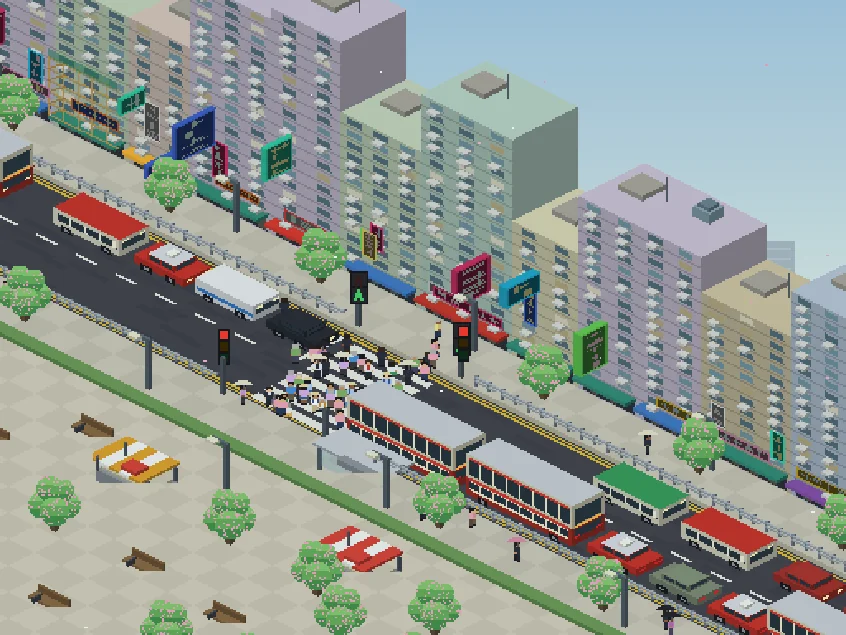
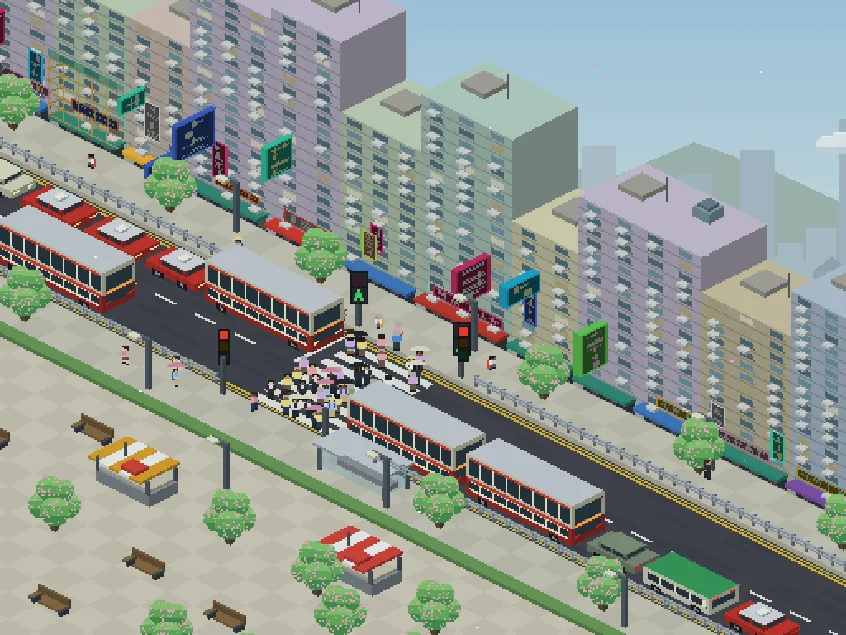
hkg-crossing: no more clipped sprites, a proper sky, and Time/Season preview buttons
Sprites are trimmed from a scratch canvas so shelters, benches, stalls and guardrails
keep their corners. The backdrop now has a sun, Victoria Peak, two rows of far towers
and drifting clouds. Time and Season buttons under the street preview any look.
Cover and write-up images re-rendered.

diff --git a/hkg-crossing/scene.js b/hkg-crossing/scene.js
@@ -87,8 +87,10 @@ const SEASONS = ['winter', 'spring', 'summer', 'autumn'];
 const QS = new URLSearchParams(location.search);
 function seasonOf(m) { return m === 11 || m <= 1 ? 'winter' : m <= 4 ? 'spring' : m <= 7 ? 'summer' : 'autumn'; }
 function periodOf(h) { return h >= 6 && h < 12 ? 'morning' : h >= 12 && h < 18 ? 'afternoon' : h >= 18 ? 'evening' : 'late'; }
-function clockHour() { const v = QS.get('hour'); return v !== null && v !== '' && !isNaN(+v) ? ((+v % 24) + 24) % 24 : new Date().getHours(); }
+const OVR = { hour: null, season: null };   // set by the Time / Season preview buttons (null = follow the clock, ?hour= or ?season=)
+function clockHour() { if (OVR.hour !== null) return OVR.hour; const v = QS.get('hour'); return v !== null && v !== '' && !isNaN(+v) ? ((+v % 24) + 24) % 24 : new Date().getHours(); }
 function clockSeason() {
+  if (OVR.season !== null) return OVR.season;
   const s = QS.get('season'); if (SEASONS.includes(s)) return s;
   const m = QS.get('month'); if (m !== null && m !== '' && !isNaN(+m)) return seasonOf((((+m - 1) % 12) + 12) % 12);
   return seasonOf(new Date().getMonth());
@@ -139,15 +141,32 @@ function drawSky(ctx, sk) {
   const sky = ctx.createLinearGradient(0, 0, 0, H);
   sky.addColorStop(0, sk.top); sky.addColorStop(0.55, sk.mid); sky.addColorStop(1, sk.low);
   ctx.fillStyle = sky; ctx.fillRect(0, 0, W, H);
-}
-function drawSkyline(ctx) {            // transparent canvas: the peak and the hazy far towers
-  const r = rng(7); ctx.save(); ctx.translate(0, OY - 36);
-  poly(ctx, [0, 150, 70, 96, 130, 120, 210, 70, 300, 112, 380, 84, 470, 118, 512, 100, 512, 200, 0, 200], '#a9bdb8');
-  for (let x = -10; x < W; x += 14 + Math.floor(r() * 16)) {
-    const w = 12 + Math.floor(r() * 16), h = 40 + Math.floor(r() * 90);
-    ctx.fillStyle = mix('#b6c4cc', '#9eb0bc', r()); ctx.fillRect(x, 175 - h, w, h + 60);
-    ctx.fillStyle = 'rgba(255,255,255,.18)'; for (let yy = 175 - h + 4; yy < 175; yy += 6) ctx.fillRect(x + 2, yy, w - 4, 1);
+  // sun: low and soft in the morning, high and bright in the afternoon, a big orange one setting in the evening; hidden by winter overcast
+  const sunAt = { morning: [458, 170, 9, '255,240,190', 70], afternoon: [405, 46, 8, '255,252,225', 90], evening: [478, 215, 12, '255,170,90', 110] }[state.period];
+  if (sunAt && state.season !== 'winter') {
+    const [sx, sy, r, rgbc, gr] = sunAt, gl = ctx.createRadialGradient(sx, sy, 0, sx, sy, gr);
+    gl.addColorStop(0, `rgba(${rgbc},.75)`); gl.addColorStop(1, `rgba(${rgbc},0)`); ctx.fillStyle = gl; ctx.fillRect(sx - gr, sy - gr, gr * 2, gr * 2);
+    ctx.fillStyle = `rgb(${rgbc})`; for (let yy = -r; yy <= r; yy++) { const hw = Math.round(Math.sqrt(r * r - yy * yy)); ctx.fillRect(sx - hw, sy + yy, hw * 2, 1); }
   }
+}
+function drawSkyline(ctx) {            // transparent canvas: Victoria Peak and two rows of hazy far towers (they poke above the near rooftops)
+  const r = rng(7), base = 260;
+  ctx.save();
+  // the peak and ridge, rising to the right
+  poly(ctx, [0, 232, 60, 214, 130, 196, 210, 172, 290, 142, 360, 112, 420, 86, 470, 104, 512, 124, 512, 330, 0, 330], '#a6bbb4');
+  poly(ctx, [0, 252, 90, 236, 180, 222, 270, 200, 350, 176, 430, 150, 512, 160, 512, 330, 0, 330], '#b3c6bf');
+  const row = (colA, colB, hMin, hMax, wMin, wMax, win) => {
+    for (let x = -10; x < W; ) {
+      const w = wMin + Math.floor(r() * (wMax - wMin)), h = hMin + Math.floor(r() * (hMax - hMin)), top = base - h;
+      ctx.fillStyle = mix(colA, colB, r()); ctx.fillRect(x, top, w, h + 70);
+      if (r() < 0.22) { ctx.fillRect(x + Math.floor(w / 2), top - 14, 1, 14); }                                   // antenna
+      if (r() < 0.14) poly(ctx, [x, top, x + w / 2, top - 9, x + w, top], mix(colA, colB, 0.5));                  // pitched crown
+      if (win) { ctx.fillStyle = 'rgba(255,255,255,.2)'; for (let yy = top + 4; yy < base; yy += 5) ctx.fillRect(x + 2, yy, w - 4, 1); }
+      x += w - 2 + Math.floor(r() * 5);
+    }
+  };
+  row('#bccad2', '#a9bbc6', 70, 190, 12, 24, false);       // back row: taller, hazier
+  row('#a2b3be', '#92a5b2', 40, 120, 14, 30, true);         // front row: darker, with window lines
   ctx.restore();
 }
 
@@ -253,13 +272,13 @@ function drawSign(ctx, s, glow) {
   }
 }
 
-let staticDay = null, maskSky = null, maskWorld = null;
+let backC = null, worldC = null, maskSky = null, maskWorld = null;
 const lanterns = [];
 function buildStatic() {
-  const sk = skyFor(), [c, x] = canvasOf(W, H), [sl, sx] = canvasOf(W, H), [wc, wx] = canvasOf(W, H);
-  drawSky(x, sk); drawSkyline(sx); x.drawImage(sl, 0, 0);
-  const dy = OY - 36, hz = x.createLinearGradient(0, 120 + dy, 0, 215 + dy); hz.addColorStop(0, 'rgba(0,0,0,0)'); hz.addColorStop(1, sk.low); x.fillStyle = hz; x.fillRect(0, 120 + dy, W, 95);
-  x.fillStyle = sk.low; x.fillRect(0, 215 + dy, W, H - 215 - dy);
+  const sk = skyFor(), [bc, bx] = canvasOf(W, H), [sl, sx] = canvasOf(W, H), [wc, wx] = canvasOf(W, H);
+  drawSky(bx, sk); drawSkyline(sx); bx.drawImage(sl, 0, 0);
+  const hz = bx.createLinearGradient(0, 200, 0, 330); hz.addColorStop(0, 'rgba(0,0,0,0)'); hz.addColorStop(1, sk.low); bx.fillStyle = hz; bx.fillRect(0, 200, W, 130);
+  bx.fillStyle = sk.low; bx.fillRect(0, 330, W, Math.max(0, H - 330));
   drawGround(wx);
   lit.length = 0; signs.length = 0; lanterns.length = 0;
   buildings.forEach((b, i) => drawBuilding(wx, b, i));
@@ -269,12 +288,44 @@ function buildStatic() {
     if (i % 3 !== 1) return; const col = state.season === 'winter' ? '#d8342b' : '#f0a030';
     for (let k = 0; k < 3; k++) { const u = b.u0 + 0.3 + k * (b.u1 - b.u0 - 0.95) / 2, z = CFG.kerb + GF + 4; lanterns.push({ u, z, col }); const v0 = CFG.farB + 0.04; box(wx, O, u, v0, z, u + 0.42, v0 + 0.42, z + 6.5, col); box(wx, O, u + 0.06, v0 + 0.06, z + 6.5, u + 0.36, v0 + 0.36, z + 7.6, '#e8c24a'); box(wx, O, u + 0.06, v0 + 0.06, z - 1.2, u + 0.36, v0 + 0.36, z, '#e8c24a'); box(wx, O, u + 0.19, v0 + 0.19, z - 4.5, u + 0.23, v0 + 0.23, z - 1.2, '#e8c24a'); }
   });
-  x.drawImage(wc, 0, 0);
-  staticDay = c; maskSky = sx.getImageData(0, 0, W, H).data; maskWorld = wx.getImageData(0, 0, W, H).data;
+  backC = bc; worldC = wc; maskSky = sx.getImageData(0, 0, W, H).data; maskWorld = wx.getImageData(0, 0, W, H).data;
+  buildClouds();
+}
+
+// clouds drift slowly between the sky and the street; the season sets how many and how grey
+let clouds = [];
+function cloudSprite(w, h, seed, tone) {
+  const r = rng(seed), [c, x] = canvasOf(w, h), n = 4 + Math.floor(w / 18), bl = [tone[0], tone[1], tone[2]];
+  const puffs = []; for (let i = 0; i < n; i++) puffs.push([Math.floor(10 + (w - 20) * i / (n - 1)), Math.floor(h * 0.62 - r() * h * 0.25), Math.floor(h * 0.22 + r() * h * 0.22)]);
+  for (let yy = 0; yy < h; yy++) for (let xx = 0; xx < w; xx++) {
+    let hit = false, top = 99; for (const [px, py, pr] of puffs) { const d = Math.hypot(xx - px, (yy - py) * 1.15); if (d < pr) { hit = true; top = Math.min(top, py - pr); } }
+    if (!hit || yy > h * 0.78) continue;
+    x.fillStyle = yy < top + 3 ? bl[0] : yy < h * 0.6 ? bl[1] : bl[2]; x.fillRect(xx, yy, 1, 1);
+  }
+  return c;
+}
+function buildClouds() {
+  const r = rng(13), cnt = { spring: 5, summer: 6, autumn: 3, winter: 8 }[state.season], grey = state.season === 'winter';
+  const tone = grey ? ['#dfe3e8', '#c3c9d1', '#a9b1bc'] : ['#ffffff', '#eef1f4', '#d3dae2'];
+  clouds = [];
+  for (let i = 0; i < cnt; i++) { const w = 70 + Math.floor(r() * (grey ? 110 : 80)), h = 22 + Math.floor(r() * 16); clouds.push({ c: cloudSprite(w, h, 100 + i, tone), w, y: 8 + Math.floor(r() * 190), x0: r() * (W + 200), sp: 1.5 + r() * 3 }); }
+}
+function drawClouds() {
+  for (const k of clouds) { const x = ((k.x0 + state.clock * k.sp) % (W + k.w + 60)) - k.w; g.globalAlpha = 0.92; g.drawImage(k.c, Math.round(x - camX), k.y); }
+  g.globalAlpha = 1;
 }
 
 // ---------------------------------------------------------------- sprites (pre-rendered iso boxes)
-function sprite(w, h, ax, ay, fn) { const [c, x] = canvasOf(w, h); fn(x, { x: ax, y: ay }); return { c, ax, ay }; }
+function spriteRaw(w, h, ax, ay, fn) { const [c, x] = canvasOf(w, h); fn(x, { x: ax, y: ay }); return { c, ax, ay }; }   // fixed canvas, drawn in its own pixels (signal heads)
+// Iso-box sprites are drawn on a big scratch canvas and trimmed to what was actually painted, so no corner can ever be clipped.
+function sprite(w, h, ax, ay, fn) {
+  const SW = 240, SH = 220, CX = 120, CY = 150, [c, x] = canvasOf(SW, SH); fn(x, { x: CX, y: CY });
+  const d = x.getImageData(0, 0, SW, SH).data; let x0 = SW, y0 = SH, x1 = -1, y1 = -1;
+  for (let yy = 0; yy < SH; yy++) for (let xx = 0; xx < SW; xx++) if (d[(yy * SW + xx) * 4 + 3]) { if (xx < x0) x0 = xx; if (xx > x1) x1 = xx; if (yy < y0) y0 = yy; if (yy > y1) y1 = yy; }
+  if (x1 < 0) return { c: canvasOf(1, 1)[0], ax: 0, ay: 0 };
+  const [t, tx] = canvasOf(x1 - x0 + 1, y1 - y0 + 1); tx.drawImage(c, -x0, -y0);
+  return { c: t, ax: CX - x0, ay: CY - y0 };
+}
 const GLASS = '#26333d', TYRE = '#17181c', BLACK = '#1b1c20';
 
 const VT = {
@@ -384,14 +435,14 @@ function shelterSprite() {
 // signal heads (billboards)
 function headSprite(kind, state) {
   if (kind === 'ped') {
-    return sprite(11, 20, 5, 19, (x) => {
+    return spriteRaw(11, 20, 5, 19, (x) => {
       x.fillStyle = '#16171b'; x.fillRect(0, 0, 11, 20); x.fillStyle = '#26282e'; x.fillRect(1, 1, 9, 8); x.fillRect(1, 10, 9, 9);
       const on = state === 'red', og = state === 'green';
       const fig = (px, py, c, run) => { x.fillStyle = c; x.fillRect(px + 2, py, 2, 2); x.fillRect(px + 1, py + 2, 4, 3); if (run) { x.fillRect(px, py + 5, 2, 2); x.fillRect(px + 4, py + 5, 2, 2); } else { x.fillRect(px + 1, py + 5, 1, 3); x.fillRect(px + 4, py + 5, 1, 3); } };
       fig(2, 2, on ? '#ff4d3d' : '#3a1d1b', false); fig(2, 11, og ? '#47d16b' : '#16301e', true);
     });
   }
-  return sprite(7, 22, 3, 21, (x) => {
+  return spriteRaw(7, 22, 3, 21, (x) => {
     x.fillStyle = '#16171b'; x.fillRect(0, 0, 7, 22);
     [['#ff3b30', 'red'], ['#ffb000', 'amber'], ['#38d66b', 'green']].forEach(([c, n], i) => { x.fillStyle = state === n ? c : shade(c, 0.22); x.fillRect(1, 1 + i * 7, 5, 5); });
   });
@@ -656,6 +707,8 @@ function buildEmissive() {
   lamps.forEach(([u, v]) => { const [px, py] = P(O, u, v, CFG.kerb + 27); glow(x, px, py, 22, 'rgba(255,240,190,A)', 0.55); const [gx, gy] = P(O, u, v, CFG.kerb); glow(x, gx, gy + 2, 34, 'rgba(255,236,170,A)', 0.22); });
   x.globalCompositeOperation = 'source-over';
   signs.forEach((sg) => { if (!sg.flick) drawSign(x, sg, true); });
+  // the far towers' lit windows
+  { const r2 = rng(17); x.fillStyle = 'rgba(255,224,150,.8)'; for (let i = 0, n = 0; i < 1400 && n < 260; i++) { const px = Math.floor(r2() * W), py = Math.floor(r2() * H); if (maskSky[(py * W + px) * 4 + 3] && !maskWorld[(py * W + px) * 4 + 3] && r2() < 0.8) { x.fillRect(px, py, 1, 1); n++; } } }
   // late night: a moon and a few stars, only where the sky is actually showing
   if (state.period === 'late') {
     const open = (px, py) => px >= 0 && px < W && py >= 0 && py < H && !maskSky[(py * W + px) * 4 + 3] && !maskWorld[(py * W + px) * 4 + 3];
@@ -737,7 +790,7 @@ function collect() {
   items.sort((a, b) => a.k - b.k);
 }
 function render() {
-  g.drawImage(staticDay, -camX, 0);
+  g.drawImage(backC, -camX, 0); drawClouds(); g.drawImage(worldC, -camX, 0);
   collect();
   for (const it of items) { if (it.a < 1) g.globalAlpha = it.a; g.drawImage(it.c, it.x - camX, it.y); if (it.a < 1) g.globalAlpha = 1; }
   drawFx();
@@ -800,7 +853,7 @@ window.HKG_SCENE = {
   pulse() { state.pulse = 0.05; },
   // debug: put a vehicle of a given type on lane li at progress s (used to check sprites)
   force(li, type, s0) { const l = lanes[li], t = VT[type], col = type === 'bus' ? { body: '#efe6c8' } : type === 'taxi' ? { body: '#c8342b' } : { body: '#e8e8ea', roof: '#c8342b' }; l.list.push({ type, len: t.len, wid: t.wid, vmax: t.vmax, s: s0, sp: 0, spr: vehSpr(type, 'dbg', col, l.dir), lane: l }); l.list.sort((a, b) => b.s - a.s); render(); },
-  setClock(hour, season) { if (hour !== undefined) QS.set('hour', hour); if (season) QS.set('season', season); if (applyClock()) rebuildClock(); else render(); },
+  setClock(hour, season) { if (hour !== undefined) OVR.hour = hour; if (season !== undefined) OVR.season = season; if (applyClock()) rebuildClock(); else render(); },
   render, warm, state, lanes, peds, CFG,
 };
 })();

diff --git a/hkg-crossing/index.html b/hkg-crossing/index.html
@@ -38,6 +38,9 @@ html.bare .pole { margin:0; border:0; border-radius:0; }
 .dock { position:absolute; left:14px; bottom:14px; z-index:2; display:flex; align-items:center; gap:10px; line-height:1.3; }
 .dock .press { box-shadow:0 6px 18px rgba(0,0,0,.45); }
 .dock .plate { background:rgba(10,10,14,.8); padding:6px 10px; border-radius:2px; color:var(--ink); min-height:0; }
+.looks { display:flex; flex-direction:column; align-items:center; gap:8px; margin:0 0 14px; }
+.seg { display:flex; flex-wrap:wrap; align-items:center; justify-content:center; gap:6px; }
+.seg > span { font-size:11px; letter-spacing:.14em; text-transform:uppercase; color:var(--dim); min-width:7ch; text-align:right; margin-right:4px; }
 .hint { text-align:center; color:var(--dim); font-size:12px; margin:-12px 0 16px; }
 .box { background:#16161c; border:1px solid var(--line); border-radius:12px; padding:12px 14px 10px; display:flex; flex-direction:column; align-items:center; gap:8px; width:132px; }
 .press { width:64px; height:64px; min-height:0; padding:0; border-radius:50%; border:2px solid #55555e; background:radial-gradient(circle at 35% 30%, #8a8a94, #3a3a42); display:grid; place-items:center; transition:transform .08s, background .15s, border-color .15s; }
@@ -95,6 +98,10 @@ button:active { transform:scale(.97); }
       <p class="plate" id="plate">Press to cross</p>
     </div>
   </section>
+  <div class="looks" role="group" aria-label="Preview the street">
+    <div class="seg" data-looks="time"><span>Time</span><button type="button" class="mute" data-v="auto" aria-pressed="true">Auto</button><button type="button" class="mute" data-v="9" aria-pressed="false">Morning</button><button type="button" class="mute" data-v="15" aria-pressed="false">Afternoon</button><button type="button" class="mute" data-v="20" aria-pressed="false">Evening</button><button type="button" class="mute" data-v="2" aria-pressed="false">Late night</button></div>
+    <div class="seg" data-looks="season"><span>Season</span><button type="button" class="mute" data-v="auto" aria-pressed="true">Auto</button><button type="button" class="mute" data-v="spring" aria-pressed="false">Spring</button><button type="button" class="mute" data-v="summer" aria-pressed="false">Summer</button><button type="button" class="mute" data-v="autumn" aria-pressed="false">Autumn</button><button type="button" class="mute" data-v="winter" aria-pressed="false">Winter</button></div>
+  </div>
   <output id="status" aria-live="polite">Red man</output>
   <p id="hint" class="hint" role="status" hidden>Tap anywhere to start the sound.</p>
   <p id="quiet" class="quiet" role="status" hidden>Quiet hours, midnight to 6am: the crossing stays silent. Come back after six.</p>
@@ -549,6 +556,12 @@ function build() {
   };
   $('cycle').onclick = () => { state.cycling ? stopCycle() : startCycle(); };
   setVoice('blend'); setPhase('off'); $('status').textContent = 'Red man'; $('press').onclick = () => { showQuiet(); startCrossing(); }; showQuiet();
+  // Preview the street at any time of day or season (the sound's quiet hours still follow the real clock).
+  document.querySelectorAll('.seg button').forEach((b) => { b.onclick = () => {
+    const seg = b.closest('.seg'), v = b.dataset.v; seg.querySelectorAll('button').forEach((x) => x.setAttribute('aria-pressed', x === b));
+    if (!window.HKG_SCENE) return;
+    if (seg.dataset.looks === 'time') HKG_SCENE.setClock(v === 'auto' ? null : +v, undefined); else HKG_SCENE.setClock(undefined, v === 'auto' ? null : v);
+  }; });
   // Start the idle tick on load. Browsers keep audio suspended until the first tap, so unlock on that and say so.
   state.quietStart = true; $('power').click(); state.quietStart = false;
   const hintOn = () => { const h = $('hint'); h.hidden = !(state.ctx && state.ctx.state !== 'running' && !quiet() && !state.muted); };

diff --git a/hkg-crossing/direction/index.html b/hkg-crossing/direction/index.html
@@ -134,10 +134,10 @@ dialog.real::backdrop { background: rgba(4,4,6,.82); }
     <p>A lamp and a button were enough to carry the sound for a while, but a crossing is really about the people on it. So the page is now a small isometric Hong Kong street, drawn entirely in code with no image files, and it runs off every edge of the picture like a real street does: tenements with air-con units and neon signs, tall double-decker buses, red taxis and minibuses driving on the left, a plaza with trees and a dai pai dong, and a proper crowd. The push button floats at the bottom-left of the street. Press it and it plays out. The crowd gathers at both kerbs while the car lights go amber, then red. The scramble starts on the green man, the last few hurry on the flashing green, and the traffic pulls away when it's over.</p>
     <img class="shot wide" src="shots/5-street-day.webp" alt="An isometric pixel-art Hong Kong street in spring daylight with a crowd crossing a zebra crossing between stopped taxis and buses" width="846" height="635" loading="lazy">
     <p class="cap">The green man: cars stopped at the lights, the crowd on the zebra. Preview any moment with ?phase=wait, walk or clear.</p>
-    <p>It follows your clock. Every six hours the street changes: a cool morning, a warm afternoon, an evening from 6pm with the neon and windows lit and the headlights on, and a late night after midnight with a moon and stars, fewer cars and a thin crowd, quiet along with the sound.</p>
+    <p>It follows your clock. Every six hours the street changes: a cool morning with a low sun, a warm bright afternoon, an evening from 6pm with the neon and windows lit and the headlights on, and a late night after midnight with a moon, stars, fewer cars and a thin crowd, quiet along with the sound. Behind the towers sit Victoria Peak and two rows of hazy far towers, with clouds drifting past, and their windows light up at night too.</p>
     <img class="shot wide" src="shots/6-street-times.webp" alt="Four views of the same street: morning, afternoon, evening with glowing neon, and late night with a moon" width="1024" height="768" loading="lazy">
     <p class="cap">Morning, afternoon, evening and late night, in summer. Try ?hour=2.</p>
-    <p>It also follows the calendar. In spring the trees blossom and petals drift down, in summer the street is lush and people carry sun umbrellas, in autumn the leaves turn and fall, and in winter people wrap up, the trees thin out, and red lanterns go up on the buildings. The people change what they wear to match.</p>
+    <p>It also follows the calendar. In spring the trees blossom and petals drift down, in summer the street is lush and people carry sun umbrellas, in autumn the leaves turn and fall, and in winter people wrap up, the trees thin out, and red lanterns go up on the buildings. The people change what they wear to match. Under the street there are Time and Season buttons, so you don't have to wait for the calendar to see any of it. They only change the picture: the sound's quiet hours still follow your real clock.</p>
     <img class="shot wide" src="shots/7-street-seasons.webp" alt="Four views of the same street in winter, spring, summer and autumn, with different trees, clothes and decorations" width="1024" height="768" loading="lazy">
     <p class="cap">Winter, spring, summer and autumn at 3pm. Try ?month=4 (or ?season=autumn).</p>
     <p class="say"><b>Rule:</b> one clock for the sound and the picture, so they can't drift apart.</p>

diff --git a/CLAUDE.md b/CLAUDE.md
@@ -72,6 +72,9 @@ The tick of a Hong Kong pedestrian crossing, synthesised with the Web Audio API 
 - Street scene (`scene.js`, `window.HKG_SCENE`): isometric 2:1 tiles (u along the road, v across; left-hand traffic: far lane drives +u, near lane -u), 512x384 (4:3) internal canvas with the street running off every edge (world u from -14 to 28, a near-side plaza to v=25; vehicles and pedestrians enter and leave off-canvas; the crossing sits left of and below centre, `CFG.cx`, so the tenements fill the view and the plaza stays small), drawn only with fillRect/polygon spans (pixel-exact, no anti-aliasing) from iso boxes. Static scenery (sky, skyline, road, zebra, 14 procedural tenements 10 to 22 floors tall with air-cons, scaffolding and neon signs) is pre-rendered once; vehicles (taxi, car, van, minibus, double-decker bus) and props (guardrails, lamps, trees, signal poles, bus shelter) are pre-rendered sprites; pedestrians are 12px billboards from 36 seeded looks (worker, school kid, auntie with the red-white-blue bag, tourist, delivery rider, casual; some with umbrellas) in 4 walk frames and 3 facings. Everything drawn is depth-sorted by u+v each frame (~0.1ms of JS). The lab calls `HKG_SCENE.setPhase(p)` from its own `setPhase` and `HKG_SCENE.pulse()` on each tick. Mapping: off = traffic flows, a few strollers; wait = crowd gathers at both kerbs (up to ~11 a side), car light green->amber (1s)->red (2s); walk = car red, crowd released with a 0-1.2s stagger plus a 3s scramble of new arrivals, cars yield to anyone on the road; clear = no new crossers, 4 hurrying runners; back to off = cars released after 1.2s. Vehicles and pedestrians dissolve at the slab ends instead of clipping. Time of day (local clock, `?hour=N`): four 6-hour looks, each a sky palette plus a multiply tint: morning 6-12, afternoon 12-18, evening 18-24 (night: emissive layer with lit windows, neon, lamp glows, lanterns, plus headlights/taillights and signal heads redrawn on top) and late night 0-6 (the quiet hours: moon and stars where the sky shows, thinner traffic and crowd). Season (calendar month, `?month=1-12` or `?season=`): winter Dec-Feb (pale thin trees with pink Bauhinia blossom, coats and scarves, red lanterns), spring Mar-May (blossom, drifting petals, pastel clothes), summer Jun-Aug (lush, sun umbrellas, shorts), autumn Sep-Nov (orange trees, falling leaves, amber lanterns). The look is rebuilt when the period or season changes (checked every 30s). Phones (<600px wide) get a 360px-wide crop (still 384 tall) centred on the crossing so pixels stay near 1:1; reduced motion renders static states (`warm()` simulates a few seconds per phase change, no loop). The loop pauses off-screen and when the tab is hidden. Built in a separate clone (`claude-projects/labs-clones/hkg-scene`, branch `hkg-scene`). Chuck's decisions: isometric, replace the SVG signal head, "proper HK crowd".
 - Volume: fixed, no control. `CONFIG.volume` is 0.15, i.e. 30% of the original 0.5 (about 10 dB quieter; Chuck: it was louder than YouTube and games, then still too loud at 40%). The write-up demo uses the same value (`demo.js` `CONFIG.volume`).
 - Autostart: the idle red-man tick starts on load (`$('power').click()` with `state.quietStart`, so no green phase flashes through the scene). Browsers keep the AudioContext suspended until the first gesture, so a first pointerdown/keydown/touch resumes it and a "Tap anywhere to start the sound." line shows until it is running.
+- Sprites: iso-box sprites (`sprite()`) are drawn on a big scratch canvas and trimmed to their painted bounds, so a corner can never be clipped (the old fixed-size canvases clipped the bus shelter, benches, stalls and guardrail at their bottom-right). Signal heads use `spriteRaw()` (fixed canvas, own pixels).
+- Sky and backdrop: `backC` (sky gradient, a sun that follows the period and is hidden by winter overcast, Victoria Peak, two rows of hazy far towers with antennas and crowns) is drawn first, then drifting pixel clouds (count and greyness by season, `buildClouds`/`drawClouds`), then `worldC` (the street). The far towers' windows light up at night. Only the top-right of the view shows sky; the towers poke above the near rooftops.
+- Preview controls: a Time row (Auto, Morning, Afternoon, Evening, Late night) and a Season row (Auto, Spring, Summer, Autumn, Winter) under the scene call `HKG_SCENE.setClock(hour|null, season|null)`; null falls back to the clock or `?hour=`/`?season=`. They change the picture only: the sound's quiet hours stay on the real clock.
 - Neon signs: three kinds (blade sticking out of the wall, fascia board over the shop, tall hanging banner), 12 neon colours, optional contrasting frame, pseudo-lettering built from seeded strokes (illegible on purpose), one sign in five flickers at night (drawn live each frame, the rest are in the pre-rendered emissive layer).
 - Cover: `hkg-crossing/cover.webp` (from `originals/hkg-crossing/cover.png`, 1000x475, `fit: 'cover'`): the street in autumn, day on the left and night on the right, zoomed on the crossing, composed from `?bare&hour=14&month=10&phase=walk` and `?bare&hour=21&month=10&phase=wait` renders at 1280x960 (cropped 1000x475 starting at x=80,y=230, so more building and less plaza) on the same slight diagonal as the ocean cover (top 46%, bottom 54%) (`?bare` hides everything but the scene). `cover.og.jpg` is the same composite at 1200x630. Buses are 24px tall (`VT.bus.bh`); `HKG_SCENE.force(lane, type, s)` puts a vehicle on screen to check a sprite.
 - Scheduling: a lookahead scheduler on the audio clock (not setTimeout drift); the lamp pulse is a timeout keyed to each tick. Focus: the master gain ramps to 0 whenever the tab is hidden or the window has fired a `blur` (`applyFocus`: visibilitychange, blur, focus; any pointerdown/keydown/touch counts as back), and returns to `CONFIG.volume`. Do NOT use `document.hasFocus()` for this: embedded browser panes report false while you are using the page, which made the sound silent (a real bug, found Nov 2026). It mutes, it does not suspend, so the clock keeps running (Chuck: "mute not pause"). Clicking into the YouTube lightbox iframe also mutes the lab, which is wanted.
